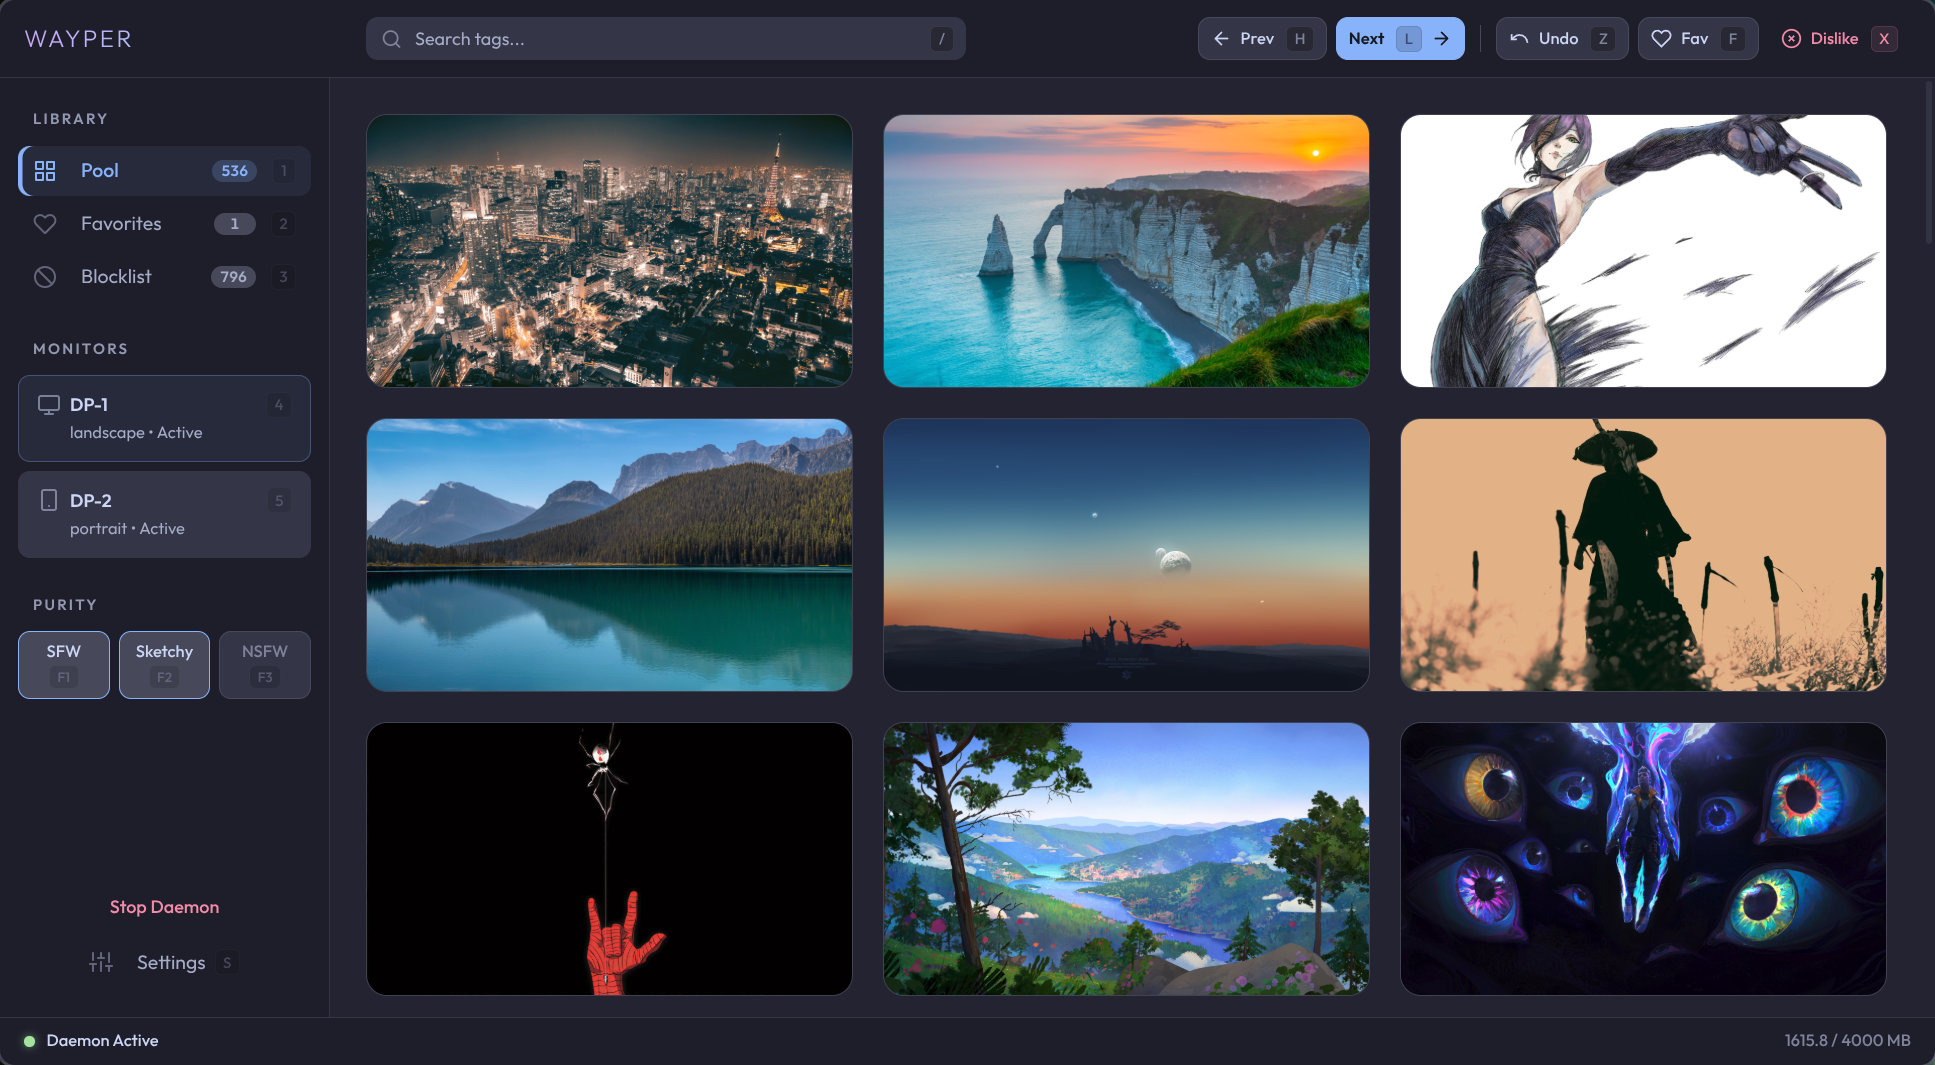
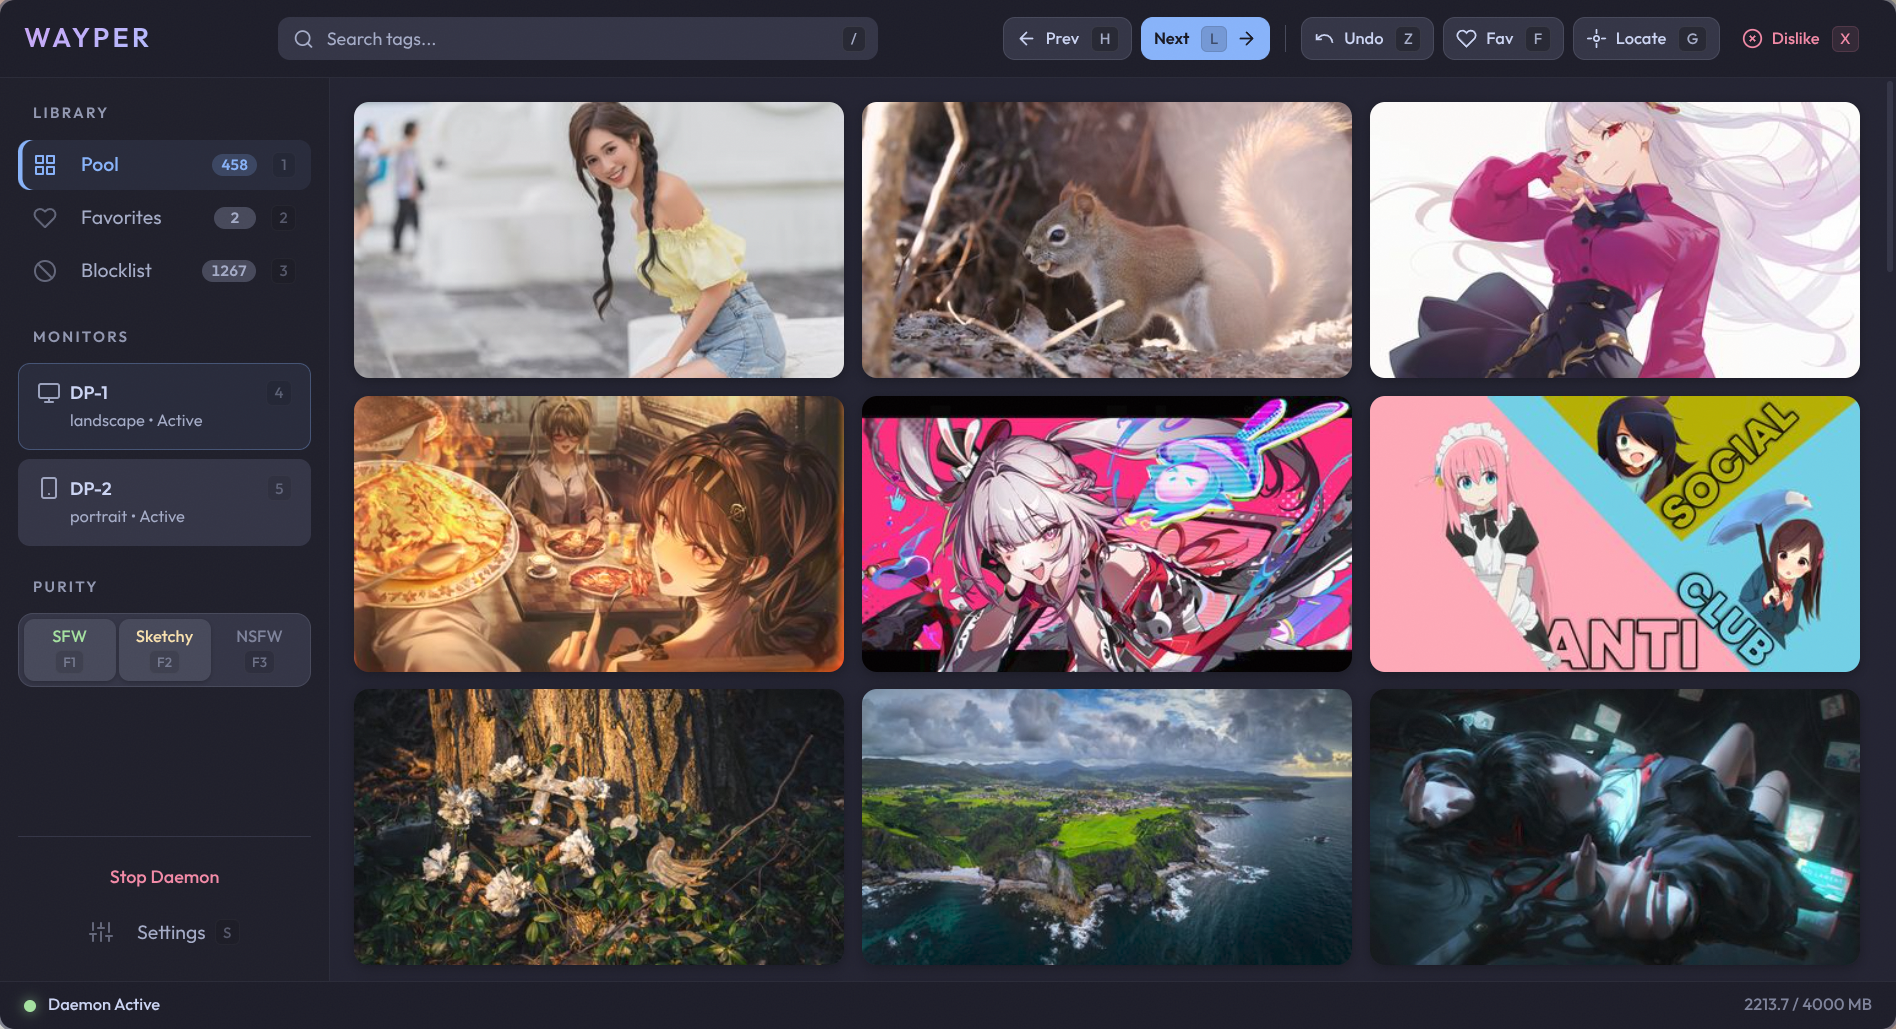
docs: revamp positioning — highlight AI-native, keyboard-driven, learning differentiators
- Tagline: "The wallpaper manager that learns what you like"
- Restructure "Why wayper?" into core differentiators vs fundamentals
- Reorder feature cards, highlight top 3 with accent colors
- Update GUI screenshot, use it as OG image for social sharing
- SEO: improve title, add keywords (alternatives, MCP, rotation)
- Sync EN + zh-CN READMEs

diff --git a/docs/index.html b/docs/index.html
@@ -3,19 +3,19 @@
 <head>
 <meta charset="utf-8">
 <meta name="viewport" content="width=device-width, initial-scale=1">
-<title>wayper — Wallhaven Desktop App & Wallpaper Manager</title>
-<meta name="description" content="Desktop wallpaper manager for Wallhaven. Auto-download, rotate, and manage wallpapers with GUI, CLI, and AI control. macOS and Linux.">
-<meta name="keywords" content="wallhaven, wallhaven app, wallhaven desktop, wallpaper manager, wallpaper changer, wallhaven client, desktop wallpaper, auto wallpaper, hyprland wallpaper, macos wallpaper, linux wallpaper, wayland wallpaper">
+<title>wayper — Wallhaven Client & AI Wallpaper Manager for Linux & macOS</title>
+<meta name="description" content="The wallpaper manager that learns what you like. Wallhaven integration, AI-native control, keyboard-driven GUI. macOS and Linux.">
+<meta name="keywords" content="wallhaven, wallhaven app, wallhaven desktop, wallhaven client, wallpaper manager, wallpaper changer, wallpaper rotation, wallpaper daemon, desktop wallpaper, auto wallpaper, ai wallpaper, mcp server wallpaper, hyprland wallpaper, sway wallpaper, wayland wallpaper, macos wallpaper, linux wallpaper, swww alternative, variety alternative, nitrogen alternative">
 <link rel="canonical" href="https://yuukidach.github.io/wayper/">
 <meta property="og:type" content="website">
 <meta property="og:url" content="https://yuukidach.github.io/wayper/">
-<meta property="og:title" content="wayper — Wallhaven Desktop App & Wallpaper Manager">
-<meta property="og:description" content="Desktop wallpaper manager for Wallhaven. Auto-download, rotate, and manage wallpapers with GUI, CLI, and AI control.">
-<meta property="og:image" content="https://raw.githubusercontent.com/yuukidach/wayper/main/assets/icon-512.png">
+<meta property="og:title" content="wayper — Wallhaven Client & AI Wallpaper Manager for Linux & macOS">
+<meta property="og:description" content="The wallpaper manager that learns what you like. Wallhaven integration, AI-native control, keyboard-driven GUI. macOS and Linux.">
+<meta property="og:image" content="https://raw.githubusercontent.com/yuukidach/wayper/main/assets/browse.png">
 <meta name="twitter:card" content="summary_large_image">
-<meta name="twitter:title" content="wayper — Wallhaven Desktop App & Wallpaper Manager">
-<meta name="twitter:description" content="Desktop wallpaper manager for Wallhaven. Auto-download, rotate, and manage wallpapers with GUI, CLI, and AI control.">
-<meta name="twitter:image" content="https://raw.githubusercontent.com/yuukidach/wayper/main/assets/icon-512.png">
+<meta name="twitter:title" content="wayper — Wallhaven Client & AI Wallpaper Manager for Linux & macOS">
+<meta name="twitter:description" content="The wallpaper manager that learns what you like. Wallhaven integration, AI-native control, keyboard-driven GUI. macOS and Linux.">
+<meta name="twitter:image" content="https://raw.githubusercontent.com/yuukidach/wayper/main/assets/browse.png">
 <script type="application/ld+json">
 {
   "@context": "https://schema.org",
@@ -23,7 +23,7 @@
   "name": "wayper",
   "applicationCategory": "DesktopEnhancement",
   "operatingSystem": "macOS, Linux",
-  "description": "Desktop wallpaper manager for Wallhaven. Auto-download, rotate, and manage wallpapers with GUI, CLI, and AI control.",
+  "description": "The wallpaper manager that learns what you like. Wallhaven integration, AI-native control, keyboard-driven GUI. macOS and Linux.",
   "url": "https://yuukidach.github.io/wayper/",
   "downloadUrl": "https://github.com/yuukidach/wayper/releases",
   "license": "https://opensource.org/licenses/MIT",
@@ -262,7 +262,7 @@ footer .links a { color: var(--subtext); }
     </svg>
     <h1>wayper</h1>
   </div>
-  <p class="tagline">Wallhaven desktop app &mdash; auto-download, rotate, and manage wallpapers with AI-native control.</p>
+  <p class="tagline">The wallpaper manager that learns what you like. Wallhaven integration, AI-native, keyboard-driven.</p>
   <div class="badges">
     <a href="https://github.com/yuukidach/wayper"><img src="https://img.shields.io/github/stars/yuukidach/wayper?style=flat&color=89b4fa&labelColor=313244&logo=github" alt="GitHub stars"></a>
     <a href="https://github.com/yuukidach/wayper/blob/main/LICENSE"><img src="https://img.shields.io/github/license/yuukidach/wayper?style=flat&color=a6e3a1&labelColor=313244" alt="License"></a>
@@ -284,41 +284,41 @@ footer .links a { color: var(--subtext); }
 <section id="features">
   <h2>Features</h2>
   <div class="features">
+    <div class="feature" style="border-color: var(--blue);">
+      <strong style="color: var(--blue);">Learns from you</strong>
+      <p>Dislike a wallpaper and wayper analyzes the pattern. AI suggests what to exclude next, with iterative feedback tracking.</p>
+    </div>
+    <div class="feature" style="border-color: var(--teal);">
+      <strong style="color: var(--teal);">AI-native (MCP)</strong>
+      <p>Tell Claude "switch to something with mountains" — it just works. First wallpaper manager with native AI assistant integration.</p>
+    </div>
+    <div class="feature" style="border-color: var(--mauve);">
+      <strong style="color: var(--mauve);">Keyboard-driven</strong>
+      <p>Every action has a shortcut. Grid navigation, lightbox, favorites, settings — fully operable without a mouse.</p>
+    </div>
     <div class="feature">
-      <strong>Wallhaven</strong>
-      <p>Auto-downloads wallpapers based on your preferences. Browse and search Wallhaven online from the GUI.</p>
+      <strong>Wallhaven client</strong>
+      <p>Auto-downloads wallpapers based on your preferences. Browse and search Wallhaven directly from the GUI.</p>
     </div>
     <div class="feature">
       <strong>Auto orientation</strong>
-      <p>Portrait monitors get portrait wallpapers. No manual sorting.</p>
-    </div>
-    <div class="feature">
-      <strong>Pool management</strong>
-      <p>Validates, resizes, rotates. Favorites, blacklist, history navigation — all built in.</p>
+      <p>Portrait monitors get portrait wallpapers. No manual sorting needed.</p>
     </div>
     <div class="feature">
       <strong>Three-tier purity</strong>
       <p>SFW, Sketchy, NSFW — independently toggleable. Persistent across sessions.</p>
     </div>
     <div class="feature">
-      <strong>Smart tag suggestions</strong>
-      <p>Analyzes your dislikes to find tags you keep blocking. Preview matches, then exclude with one click. Related tags are automatically suppressed.</p>
+      <strong>Cross-platform</strong>
+      <p>macOS and Linux (Hyprland/Sway). CLI + GUI + MCP — pick your interface.</p>
     </div>
     <div class="feature">
-      <strong>Cross-platform GUI</strong>
-      <p>Browse, preview, search by tags, and manage your collection. Works on Linux and macOS.</p>
-    </div>
-    <div class="feature">
-      <strong>Keyboard-driven</strong>
-      <p>Every action has a shortcut. Grid navigation, lightbox preview, favorites — no mouse required.</p>
-    </div>
-    <div class="feature">
-      <strong>AI-native</strong>
-      <p>Built-in MCP server for Claude Code and other assistants.</p>
+      <strong>Pool management</strong>
+      <p>Validates, resizes, rotates. Favorites, blacklist, history navigation — all built in.</p>
     </div>
     <div class="feature">
       <strong>JSON output</strong>
-      <p><code>--json</code> flag on every command for scripting.</p>
+      <p><code>--json</code> flag on every command for scripting and automation.</p>
     </div>
   </div>
 </section>

diff --git a/README.md b/README.md
@@ -2,7 +2,8 @@
   <img src="assets/icon.svg" width="100" alt="wayper logo">
   <h1 align="center">wayper</h1>
   <p align="center">
-    Cross-platform wallpaper manager with <a href="https://wallhaven.cc">Wallhaven</a> integration and AI-native control.
+    The wallpaper manager that learns what you like.<br>
+    Wallhaven integration · AI-native · keyboard-driven.
   </p>
   <p align="center">
     <a href="https://yuukidach.github.io/wayper/">Home</a> · <a href="#install">Install</a> · <a href="#gui">GUI</a> · <a href="#cli">CLI</a> · <a href="#mcp">MCP</a> · <a href="#config">Config</a> · <a href="docs/README.zh-CN.md">中文</a>
@@ -15,15 +16,21 @@
 
 ## Why wayper?
 
-- **Wallhaven integration** — auto-downloads wallpapers from [Wallhaven](https://wallhaven.cc) based on your search preferences. No manual sourcing.
-- **Auto orientation matching** — portrait monitors get portrait wallpapers, landscape gets landscape. No manual sorting.
-- **Pool management** — validates images, resizes to your exact resolution, and rotates automatically.
-- **Three-tier purity** — SFW, Sketchy, NSFW — independently toggleable. Persistent across sessions.
-- **Smart tag exclusion** — analyzes your dislike history to surface tags you repeatedly block. Supports single-tag and combo exclusion (e.g., "tattoo + nude") for fine-grained filtering. Exclusion rules filter at download time — existing pool images you've kept are never removed.
-- **AI-powered analysis** — Claude CLI analyzes your dislike patterns to suggest exclusion rules with iterative history tracking. Each round reflects on past suggestions and your feedback.
-- **Cross-platform GUI** — browse, preview, search, and manage your entire collection. Tag search, smart suggestions, AI analysis, daemon control, settings — all keyboard-driven.
-- **AI-native** — built-in MCP server lets AI assistants control your wallpapers directly.
-- **JSON output** — `--json` flag on every command for scripting and automation.
+Most wallpaper tools stop at "set image on desktop." wayper is a full **Wallhaven client** that auto-downloads, curates, and rotates wallpapers — and gets smarter the more you use it.
+
+**What makes it different:**
+
+- **Learns from you** — dislike a wallpaper and wayper analyzes the pattern. AI-powered tag analysis suggests what to exclude next, with iterative feedback tracking across sessions.
+- **AI-native (MCP)** — built-in [MCP](https://modelcontextprotocol.io/) server. Tell Claude *"switch to something with mountains"* or *"favorite this one"* — it just works. First wallpaper manager with native AI assistant integration.
+- **Keyboard-driven GUI** — every single action has a shortcut. Grid navigation, lightbox, favorites, settings — fully operable without a mouse. Built for power users.
+
+**And the fundamentals:**
+
+- **Wallhaven integration** — auto-downloads based on your search preferences. No manual sourcing.
+- **Auto orientation** — portrait monitors get portrait wallpapers. No sorting needed.
+- **Three-tier purity** — SFW, Sketchy, NSFW — independently toggleable, persistent across sessions.
+- **Cross-platform** — macOS and Linux (Hyprland/Sway). CLI + GUI + MCP.
+- **`--json` everywhere** — every command supports machine-readable output.
 
 ## Install
 

diff --git a/docs/README.zh-CN.md b/docs/README.zh-CN.md
@@ -2,7 +2,8 @@
   <img src="../assets/icon.svg" width="100" alt="wayper logo">
   <h1 align="center">wayper</h1>
   <p align="center">
-    跨平台壁纸管理器，集成 <a href="https://wallhaven.cc">Wallhaven</a> 和 AI 原生控制。
+    越用越懂你的壁纸管理器。<br>
+    Wallhaven 集成 · AI 原生 · 全键盘操作。
   </p>
   <p align="center">
     <a href="#安装">安装</a> · <a href="#gui">GUI</a> · <a href="#cli">CLI</a> · <a href="#mcp-服务">MCP</a> · <a href="#配置">配置</a> · <a href="../README.md">English</a>
@@ -15,15 +16,21 @@
 
 ## 为什么选 wayper？
 
-- **Wallhaven 集成** — 根据搜索偏好自动从 [Wallhaven](https://wallhaven.cc) 下载壁纸，无需手动找图。
-- **自动匹配方向** — 竖屏显示器自动用竖屏壁纸，横屏用横屏。无需手动分类。
-- **壁纸池管理** — 验证图片、裁剪至显示器分辨率、定时轮换。
+大多数壁纸工具止步于"设置桌面图片"。wayper 是一个完整的 **Wallhaven 客户端**，自动下载、筛选、轮换壁纸——而且越用越懂你的口味。
+
+**核心差异：**
+
+- **越用越聪明** — 拉黑壁纸后，wayper 分析你的模式。AI 驱动的标签分析会建议下一步排除什么，支持多轮迭代反馈追踪。
+- **AI 原生（MCP）** — 内置 [MCP](https://modelcontextprotocol.io/) 服务器。对 Claude 说 *"换一张有山的壁纸"* 或 *"收藏这张"* 就行。首个原生支持 AI 助手的壁纸管理器。
+- **全键盘操作 GUI** — 每个操作都有快捷键。网格导航、灯箱预览、收藏、设置——完全不需要鼠标。为重度用户打造。
+
+**基础能力：**
+
+- **Wallhaven 集成** — 根据搜索偏好自动下载，无需手动找图。
+- **自动匹配方向** — 竖屏显示器自动用竖屏壁纸，无需分类。
 - **三档纯度** — SFW、Sketchy、NSFW 独立开关，跨会话持久化。
-- **智能标签排除** — 分析拉黑历史，自动发现反复拉黑的标签。支持单标签和组合排除（如"tattoo + nude"），精细过滤。排除规则仅在下载时过滤——已保留的壁纸池图片不会被移除。
-- **AI 分析** — 通过 Claude CLI 深度分析拉黑模式，生成排除规则建议，支持多轮迭代历史追踪。每轮分析会反思历史建议和用户反馈。
-- **跨平台 GUI** — 浏览、预览、搜索和管理整个壁纸集合。标签搜索、智能建议、AI 分析、daemon 控制、设置——全键盘操作。
-- **AI 原生** — 内置 MCP 服务器，AI 助手可以直接控制壁纸。
-- **JSON 输出** — 所有命令支持 `--json`，方便脚本和自动化。
+- **跨平台** — macOS 和 Linux（Hyprland/Sway）。CLI + GUI + MCP。
+- **`--json` 全覆盖** — 所有命令支持机器可读输出。
 
 ## 安装
 
